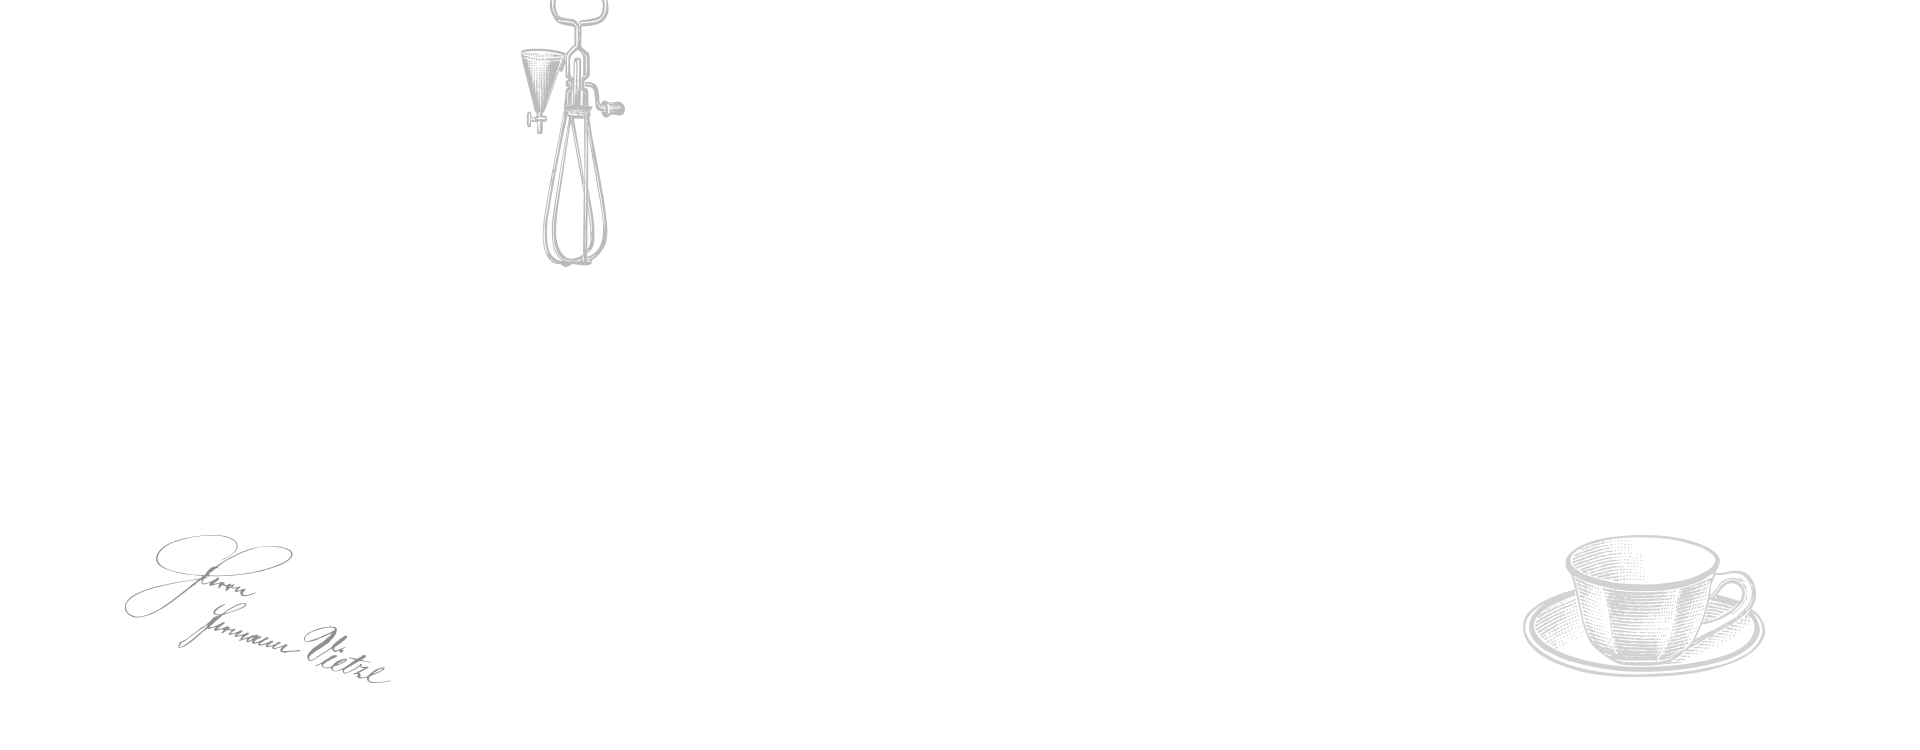
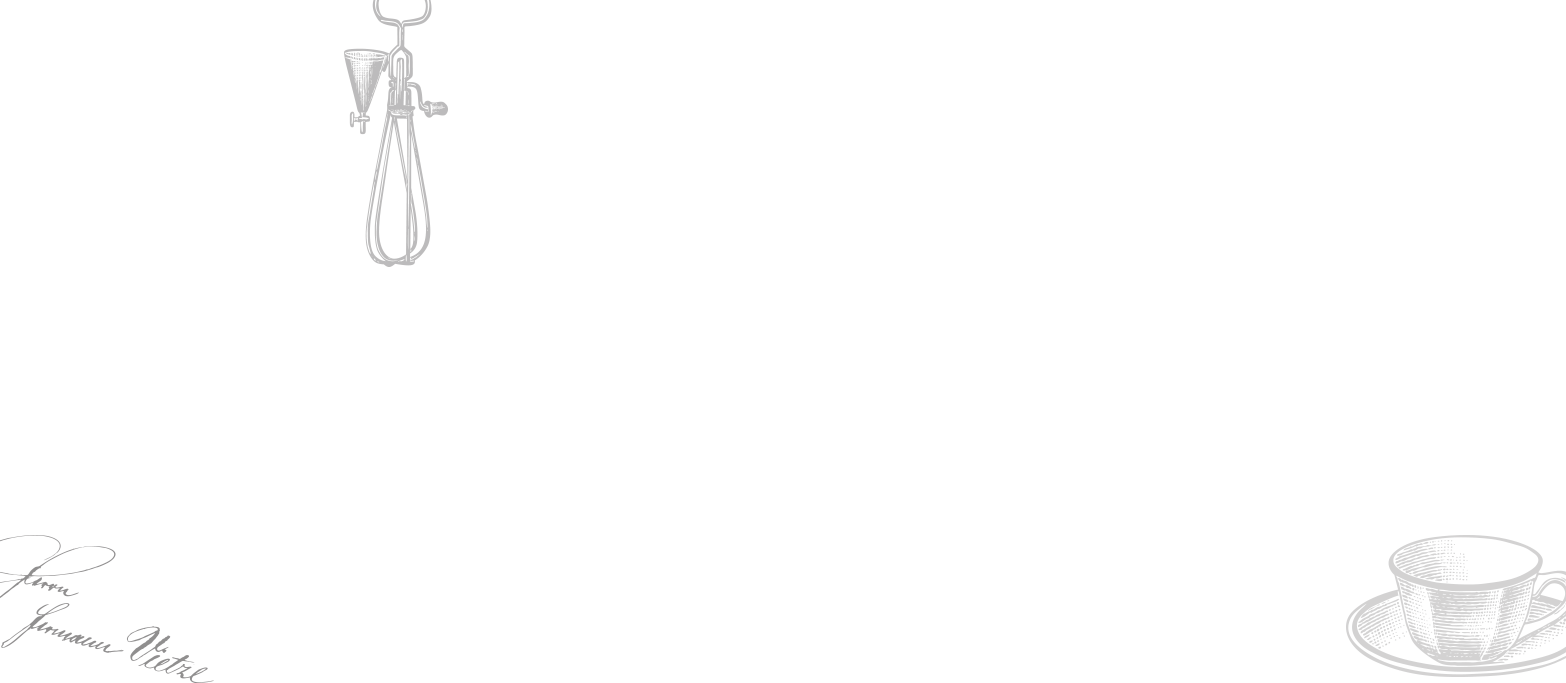
Fixes

diff --git a/sass/src/style.scss b/sass/src/style.scss
@@ -382,6 +382,7 @@ i {
     mask-image: url(assets/images/button-bg.svg);
     display: inline-block;
     transition: all .35s ease-in-out;
+    cursor: pointer;
     i {
         margin-right: 15px;
         vertical-align: middle;
@@ -3256,11 +3257,10 @@ section#recommend {
 #masonry_gallery { 
     margin-left: 0;
 }
-
 section#gallery {
     position: relative;
-    background-image: url('assets/images/home_bg_section_03.png');
-    background-position: 50% top;
+    background-image: url('assets/images/home_bg_section_03.png'), url('assets/images/background-sections/gallery_bg_section_03.png');
+    background-position: 50% top, 100% bottom;
     background-size: auto;
     background-repeat: no-repeat;
     padding-bottom: 9rem;
@@ -3309,6 +3309,10 @@ section#gallery {
 }
 
 #contact {
+    background-image: url('assets/images/background-sections/contact_bg_section_01.png');
+    background-size: cover;
+    background-position-x: center;
+    background-position-y: center;
     h2 {
         color: $black;
         font-size: 1.75rem;
@@ -3441,6 +3445,7 @@ section#gallery {
 .offer-features {
     text-align: center;
     background-color: #242424;
+    padding: 4.5rem 0;
     p {
         color: #d4d4d4;
         font-size: .95rem;
@@ -3449,7 +3454,7 @@ section#gallery {
 
     &__feature {
         i {
-            font-size: 75px;
+            font-size: 90px;
             color: $white;
             & + p {
                 margin-top: 3px;
@@ -3612,7 +3617,7 @@ p.p-outline {
         a {
             color: $color-pallete-red;
             font-size: 2.25rem;
-            font-weight: 500;
+            font-weight: 700;
             i {
                 margin-bottom: 6px;
                 margin-right: 20px;
@@ -3634,8 +3639,6 @@ p.p-outline {
         font-family: Hind, sans-serif;
         font-weight: 800;
         font-size: 0.875rem;
-        padding: 14px 25px;
-        color: #ffffff;
         border-radius: 5px;
         text-transform: uppercase;
         mask-size: auto 100%;
@@ -3644,6 +3647,15 @@ p.p-outline {
         mask-image: url(assets/images/button-bg.svg);
         display: inline-block;
         transition: all .35s ease-in-out;
+        cursor: pointer;
+        padding: 10px 25px !important;
+        border: 4px solid $color-pallete-red;
+        color: $color-pallete-red;
+        background: transparent;
+        &:hover {
+            color: $white;
+            background: $color-pallete-red;
+        }
     }
     .ajax-loader {
         display: none;

diff --git a/assets/js/global.js b/assets/js/global.js
@@ -359,20 +359,16 @@
 		
 		jQuery(function($) {
 			function fixDiv() {
-				var $cache = $('#getFixed');
+				var $cache = $('#res-btn');
 				if ($(window).scrollTop() > 100)
-					$cache.css({
-						'position': 'fixed',
-						'top': '10px'
-					});
+					$cache.addClass('hidden');
 				else
-					$cache.css({
-						'position': 'relative',
-						'top': 'auto'
-					});
+					$cache.removeClass('hidden');
 			}
-			$(window).scroll(fixDiv);
-			fixDiv();
+			if($('#res-btn').length > 0) {
+				$(window).scroll(fixDiv);
+				fixDiv();
+			}
 		});
 
 })( jQuery );

diff --git a/page-templates/business-offer.php b/page-templates/business-offer.php
@@ -13,12 +13,12 @@ while ( have_posts() ) : the_post(); ?>
     <div class="cf text-center">
     <div class="col-xs-12 col-sm-offset-1 col-sm-10 col-md-offset-2 col-md-8 col-lg-offset-4 col-lg-4">
         <?php the_content(); ?>
-        <a href="#" class="btn btn-secondary download" data-file-id="<?php the_field('offer_pdf'); ?>">
+        <a href="#" class="btn btn-secondary-outline download" data-file-id="<?php the_field('offer_pdf'); ?>">
             Pobierz ofertę w PDF
         </a>
     </div>
     <div class="col-lg-offset-1 col-lg-2 offer-people-right">
-        <h2>120–150</h2>
+        <span class="red">120–150</span>
         <h3>miejsc siedzących</h3>
         <img src="<?php echo get_template_directory_uri() ?>/assets/images/offer-people.png" class="responsive-img" alt='people'/>
     </div>
@@ -37,7 +37,7 @@ while ( have_posts() ) : the_post(); ?>
     	</div>
 	</div>
 </section>
-<section class="offer-features padding-section">
+<section class="offer-features">
     <div class="container cf">
         <div class="col-md-2 offer-features__feature">
             <i class="icon icon-parking"></i>
@@ -103,7 +103,7 @@ while ( have_posts() ) : the_post(); ?>
                                         <div class="cell img-wrap"><?php the_post_thumbnail('yumi-gallery-item'); ?></div>
                                         <div class="cell"><div class="content">
                                             <h2><?php the_sub_field('name'); ?></h2>
-                                            <?php echo  apply_filters('the_content', the_sub_field('description_3')); ?>
+                                            <?php echo apply_filters('the_content', the_sub_field('description_3')); ?>
                                         </div></div>
                                     </div>
                                 </div>
@@ -125,7 +125,7 @@ while ( have_posts() ) : the_post(); ?>
         </div>
     </div>
     <div class="max-width text-center">
-        <a href="#" class="btn btn-secondary download" data-file-id="<?php the_field('offer_pdf'); ?>">
+        <a href="#" class="btn btn-secondary-outline download" data-file-id="<?php the_field('offer_pdf'); ?>">
             Pobierz ofertę w PDF
         </a>
     </div>

diff --git a/front-page.php b/front-page.php
@@ -44,7 +44,7 @@ get_header(); ?>
 								<?php if( get_sub_field('measure_unit') ) : ?> <span class="sub"> <?php the_sub_field('measure_unit'); ?></span><?php endif; ?>
 							</div>
 						</div>
-						<div class="card-row__disc"><?php the_sub_field('ingredients'); ?></div>
+						<?php if( get_sub_field('ingredients') ) : ?><div class="card-row__disc"><?php the_sub_field('ingredients'); ?></div><?php endif; ?>
 					</div>
 					<?php endwhile; endif; ?>
 					<div class="card-button">
@@ -65,7 +65,7 @@ get_header(); ?>
 								<?php if( get_sub_field('measure_unit') ) : ?> <span class="sub"> / <?php the_sub_field('measure_unit'); ?></span><?php endif; ?>
 							</div>
 						</div>
-						<div class="card-row__disc"><?php the_sub_field('ingredients'); ?></div>
+						<?php if( get_sub_field('ingredients') ) : ?><div class="card-row__disc"><?php the_sub_field('ingredients'); ?></div><?php endif; ?>
 					</div>
 					<?php endwhile; endif; ?>
 					<div class="card-button">
@@ -86,7 +86,7 @@ get_header(); ?>
 								<?php if( get_sub_field('measure_unit') ) : ?> <span class="sub"> / <?php the_sub_field('measure_unit'); ?></span><?php endif; ?>
 							</div>
 						</div>
-						<div class="card-row__disc"><?php the_sub_field('ingredients'); ?></div>
+						<?php if( get_sub_field('ingredients') ) : ?><div class="card-row__disc"><?php the_sub_field('ingredients'); ?></div><?php endif; ?>
 					</div>
 					<?php endwhile; endif; ?>
 					<div class="card-button">
@@ -296,6 +296,11 @@ foreach ($query->posts as $key => $post) {
 	
 			</div>
 			<?php endforeach; // End of the loop. ?>
+		</div>
+		<div class="cf text-md text-center">
+			<div class="col-xs-12 col-sm-offset-1 col-sm-10 col-md-offset-2 col-md-8 col-lg-offset-4 col-lg-4">
+				<a href="<?php echo get_permalink('351'); ?>" class="btn btn-secondary-outline">Otwórz galerię</a>
+			</div>
 		</div>
 	</div>
 	

diff --git a/footer.php b/footer.php
@@ -18,8 +18,8 @@
 					<div class="col-sm-12 col-md-6 col-lg-3">
 						<h5>Kontakt</h5>
 						<p><?php echo nl2br(ot_get_option( 'address' )); ?></p>
-						<p><?php echo ot_get_option( 'phone' ); ?></p>
-						<p><?php echo ot_get_option( 'email' ); ?></p>
+						<p><a href="tel:<?php echo ot_get_option( 'phone' ); ?>"><?php echo ot_get_option( 'phone' ); ?></a></p>
+						<p><a href="mailto:<?php echo ot_get_option( 'email' ); ?>"><?php echo ot_get_option( 'email' ); ?></a></p>
 					</div>
 					<div class="col-sm-12 col-md-6 col-lg-3">
 						<h5>Cargo grill & deli</h5>
@@ -69,6 +69,14 @@
 					</div>
 				</div>
 			</footer>
+
+			<?php if(!is_page_template( 'page-templates/reservation.php' )) { ?>
+				<div id="homepage-header__reservation">
+					<a id="res-btn" href="<?php echo get_permalink('212'); ?>" class="btn btn-dark"><i class="icon icon-calendar-clock"></i><span>Rezerwacja</span></a>
+				</div>
+			<?php
+				}
+			?>
 		</div><!-- End: inner-wrap -->
 	</div><!-- End: outer-wrap -->
 	<?php wp_footer(); ?>

diff --git a/page-templates/contact.php b/page-templates/contact.php
@@ -28,7 +28,7 @@ global $post;
                     <i class="icon icon-phone-outline"></i>
                 </div>
                 <div class="info__text">
-                    <?php echo ot_get_option( 'phone' ); ?>
+                <a href="tel:<?php echo ot_get_option( 'phone' ); ?>"><?php echo ot_get_option( 'phone' ); ?></a>
                 </div>
             </div>
             <div class="info">
@@ -36,7 +36,7 @@ global $post;
                     <i class="icon icon-mail-outline"></i>
                 </div>
                 <div class="info__text">
-                    <a href="<?php echo ot_get_option( 'email' ); ?>"><?php echo ot_get_option( 'email' ); ?></a>
+                    <a href="mailto:<?php echo ot_get_option( 'email' ); ?>"><?php echo ot_get_option( 'email' ); ?></a>
                 </div>
             </div>
 

diff --git a/page-templates/reservation.php b/page-templates/reservation.php
@@ -123,13 +123,13 @@ window.ticketPrice = 0;
 				<div class="text-field md-form">
 				<i class="prefix"></i>
 					<textarea rows="5" id="order_comments" class="input-text md-textarea" name="order_comments"></textarea>
-					<label for="form8">Specjalne prośby (np. butelka szampana)</label>
+					<label for="order_comments">Specjalne prośby (np. butelka szampana)</label>
 				</div>
 			</div>
 		</div>
 		<div class="container-fluid field-row submit text-center">
 			<div class="col-md-11">
-			<button class="btn btn-secondary" type="submit">Wyślij</button></div>
+			<button class="btn btn-secondary-outline" type="submit">Wyślij</button></div>
 		</div>
 	</form>
 <?php

diff --git a/header.php b/header.php
@@ -130,9 +130,6 @@ $subtitle = get_field('page_subtitle');
                     <p><?php echo nl2br($subtitle); ?></p>
                     <a href="/menu-deli/" class="btn btn-primary btn-lg">Sprawdź menu</a>
                 </div>
-                <div id="homepage-header__reservation">
-                    <a id="res-btn" href="<?php echo get_permalink('212'); ?>" class="btn btn-dark"><i class="icon icon-calendar-clock"></i>Rezerwacja</a>
-                </div>
                 <div class="add-next-scroll"></div>
             <?php else : ?>
                 <div id="page-header__title">
